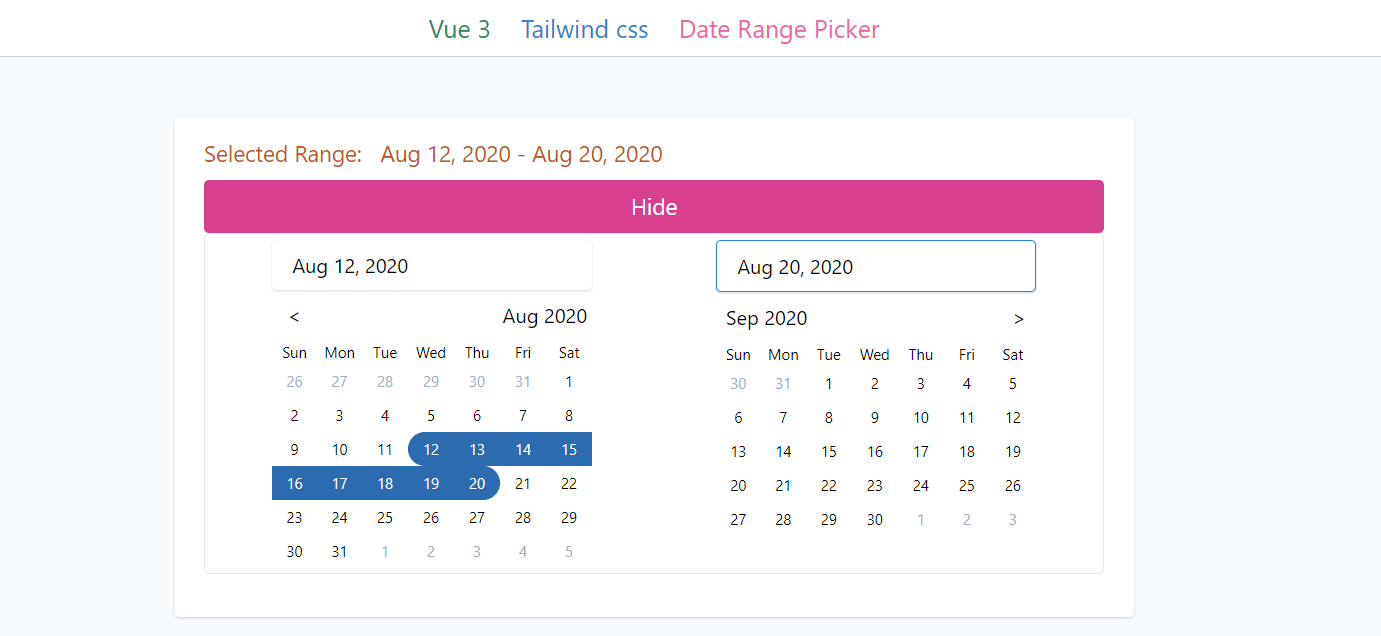
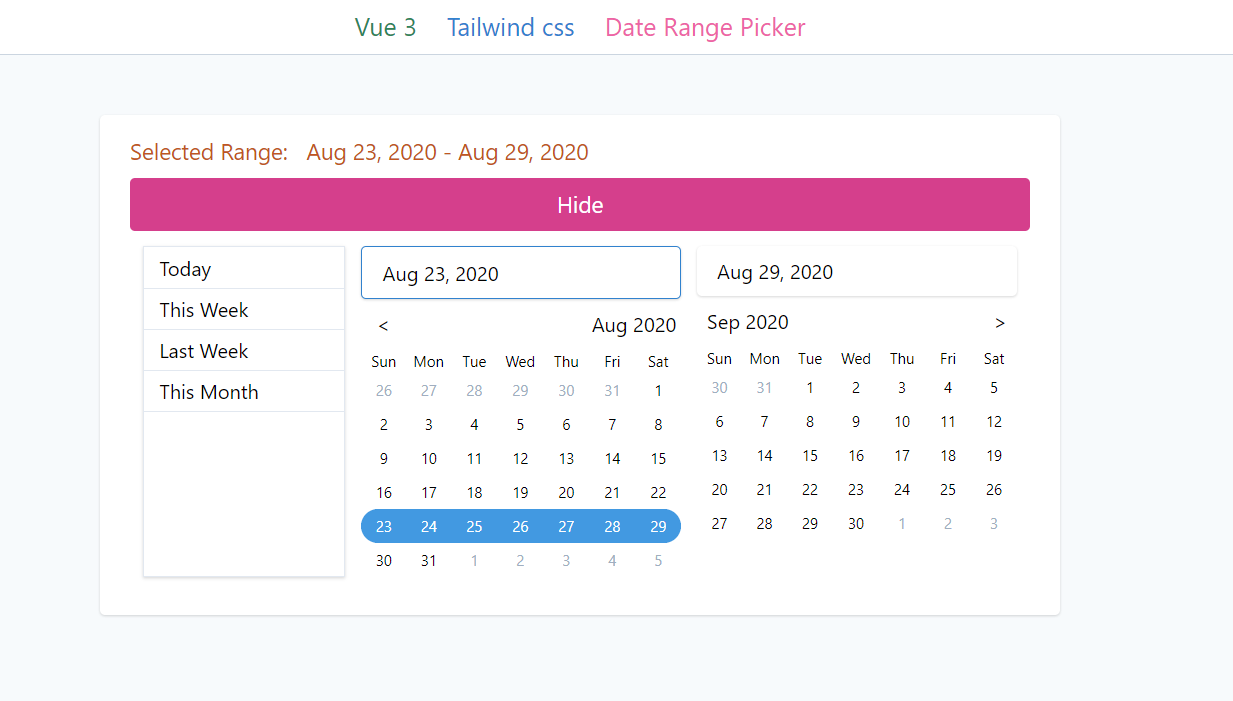
added feautres like set this week, set this month etc

diff --git a/tailwind-date-range/src/components/DateRange.vue b/tailwind-date-range/src/components/DateRange.vue
@@ -1,6 +1,16 @@
 <template>
-    <div class="rounded border border-gray-300  p-1">
+    <div class="rounded p-1">
         <div class="input-field flex flex-col md:flex-row space-y-2 md:space-y-0 w-full justify-around">
+            <div class="flex flex-col border border-gray-300 shadow">
+                <a class="btn hover:bg-gray-200 py-1 px-3 cursor-pointer rounded w-40" @click="setToday">Today</a>
+                <hr/>
+                <a class="btn hover:bg-gray-200 py-1 px-3 cursor-pointer rounded w-40" @click="setThisWeek">This Week</a>
+                <hr/>
+                <a class="btn hover:bg-gray-200 py-1 px-3 cursor-pointer rounded w-40" @click="setLastWeek">Last Week</a>
+                <hr/>
+                <a class="btn hover:bg-gray-200 py-1 px-3 cursor-pointer rounded w-40" @click="setThisMonth">This Month</a>
+                <hr/>
+            </div>
             <div class="flex flex-col">
                 <input :class="{'outline-none shadow appearance-none py-2 px-4 rounded cursor-pointer':true,'border border-blue-600':selectedField=='start_date'}"
                      placeholder="Start" readonly @click="selectedField='start_date'" :value="displayDate(startDate)">
@@ -23,7 +33,7 @@
                         </tr>
                          <tr v-for="(dt,index) in startMonthData" :key="index">
                             <td v-for="(idt,index1) in dt" :key="'td_'+index+'_'+index1" :class="{'text-xs cursor-pointer':true,
-                                        'bg-blue-700 text-white':checkRange(startYear,startMonthIndex,idt.date,idt.ind),
+                                        'bg-blue-500 text-white':checkRange(startYear,startMonthIndex,idt.date,idt.ind),
                                         'rounded-l-full':startDate!=null &&idt.date== startDate.getDate() && startMonthIndex==startDate.getMonth(),
                                         'rounded-r-full':endDate!=null && idt.date==endDate.getDate() && startMonthIndex==endDate.getMonth()}" 
                                 :id="'td_'+index+'_'+index1"   @click="selectDate(startYear,startMonthIndex,idt.date,idt.ind)">
@@ -59,7 +69,7 @@
                         </tr>
                         <tr v-for="(dt,index) in endMonthData" :key="index">
                             <td v-for="(idt,index1) in dt" :key="'td_'+index+'_'+index1" :class="{'text-xs cursor-pointer':true,
-                                'bg-blue-700 text-white':checkRange(endYear,endMonthIndex,idt.date,idt.ind),
+                                'bg-blue-500 text-white':checkRange(endYear,endMonthIndex,idt.date,idt.ind),
                                 'rounded-l-full':startDate!=null &&idt.date== startDate.getDate() && endMonthIndex==startDate.getMonth(),
                                 'rounded-r-full':endDate!=null && idt.date==endDate.getDate() && endMonthIndex==endDate.getMonth()}" 
                                 :id="'td_'+index+'_'+index1" @click="selectDate(endYear,endMonthIndex,idt.date,idt.ind)">
@@ -132,6 +142,54 @@ export default {
             if(dt>=this.startDate && dt<=this.endDate){                
                 return true
             }
+            return false
+        },
+        resetVisibleDates(){
+            let index=this.startDate.getMonth()
+            let year=this.startDate.getFullYear()
+            while(this.startMonthIndex>index || year>this.startYear){
+                this.decreaseMonth()
+            }
+            while(this.startMonthIndex<index || year<this.endYear){
+                this.increaseMonth()
+            }
+        },
+        setToday(){
+            let dt=new Date()
+            this.startDate=new Date(dt.getFullYear(),dt.getMonth(),dt.getDate())
+            this.endDate=new Date(dt.getFullYear(),dt.getMonth(),dt.getDate())            
+            this.resetVisibleDates()
+            this.emitRange()
+        },
+        setThisWeek(){
+            let dt=new Date()
+            while(dt.getDay()>0){                
+                dt.setDate(dt.getDate()-1)                
+            }
+            this.startDate=new Date(dt.getFullYear(),dt.getMonth(),dt.getDate())
+            this.endDate=new Date(dt.getFullYear(),dt.getMonth(),dt.getDate())
+            this.endDate.setDate(this.endDate.getDate()+6)
+            this.resetVisibleDates()
+            this.emitRange()
+        },
+         setLastWeek(){
+            let dt=new Date()
+            while(dt.getDay()>0){                
+                dt.setDate(dt.getDate()-1)                
+            }
+            dt.setDate(dt.getDate()-7)
+            this.startDate=new Date(dt.getFullYear(),dt.getMonth(),dt.getDate())            
+            this.endDate=new Date(dt.getFullYear(),dt.getMonth(),dt.getDate())
+            this.endDate.setDate(this.endDate.getDate()+6)
+            this.resetVisibleDates()
+            this.emitRange()
+        },
+        setThisMonth(){
+            let dt=new Date()
+            this.startDate=new Date(dt.getFullYear(),dt.getMonth(),1) 
+            this.endDate=new Date(dt.getFullYear(),dt.getMonth()+1,0)  
+            this.resetVisibleDates()
+            this.emitRange()  
         }
     }
 }
